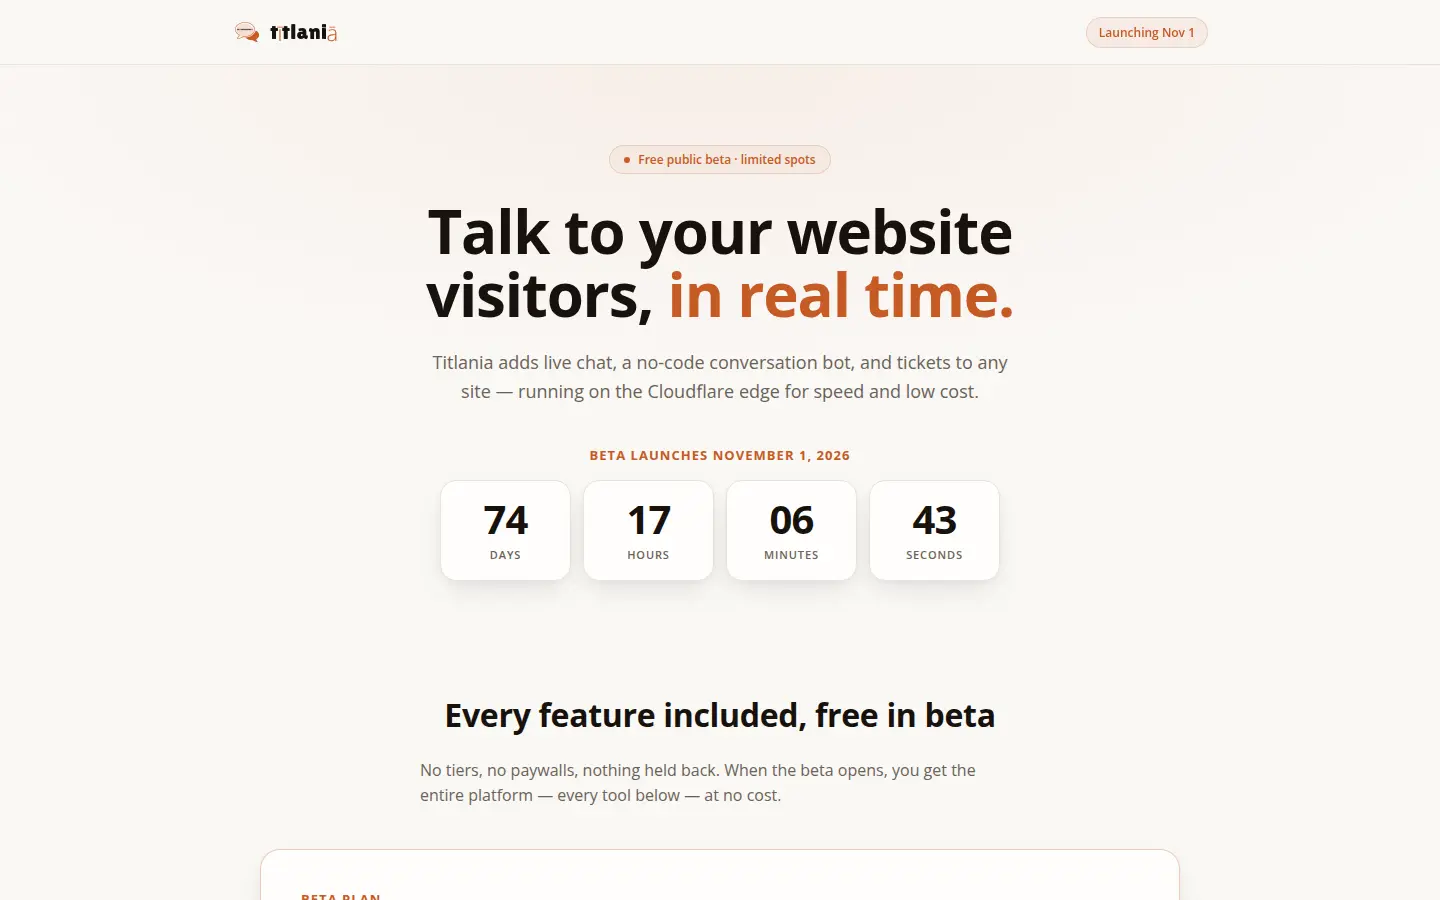
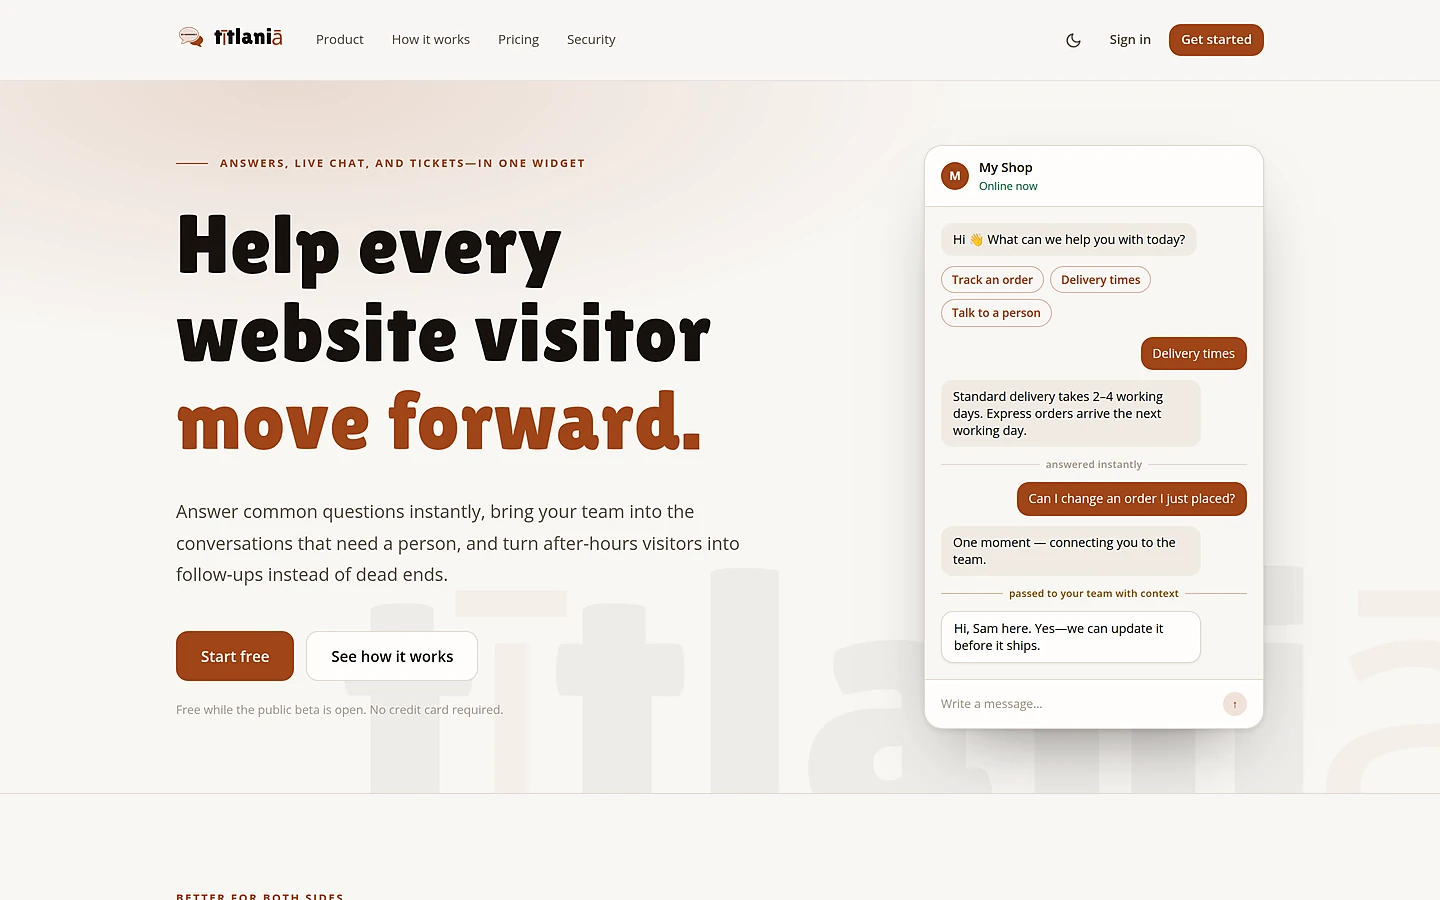
Mark Titlania as live and refresh its project card
Titlania has shipped (free public beta), so update every place that still
described it as unreleased and give it a real description and thumbnail.

- content.js: status IN DEVELOPMENT -> LIVE; replace the placeholder
  description with what the product actually is (a customer-support widget
  that answers routine questions in the visitor's browser and hands live
  chats/tickets to a human team); real tags (Support widget, Live chat,
  Browser-local, Cloudflare); accurate imageAlt; and the Independent
  Products experience line now reads "Building, shipping and maintaining
  Titlania alongside it."
- titlania-preview.webp: replace the stale preview with a real 1440x900
  hero screenshot of the live site (light theme, captured headless via the
  DevTools protocol), re-encoded through PIL at q90 so text stays crisp
  (the ImageMagick build here silently ignores -quality for WebP).
- build.mjs + llms.txt: drop the "in development" / "ongoing" wording from
  the sitemap image caption and the AI-readable summary so the public
  metadata matches the live status.

Verified with `npm run build && npm run verify` (all checks pass).

Claude-Session: https://claude.ai/code/session_0139M35YmY6M33FPfTJAZbu9

diff --git a/src/data/content.js b/src/data/content.js
@@ -4,7 +4,7 @@ export const experience = [
     title: 'Product Developer',
     company: 'Independent Products',
     description:
-      'Design, build, ship and maintain WithinBench end to end: product direction, interface, the full Next.js implementation, hardened Cloudflare Workers, deployment and legal pages. Developing Titlania alongside it. Sole owner of both codebases and every decision in them.',
+      'Design, build, ship and maintain WithinBench end to end: product direction, interface, the full Next.js implementation, hardened Cloudflare Workers, deployment and legal pages. Building, shipping and maintaining Titlania alongside it. Sole owner of both codebases and every decision in them.',
     tags: ['Product development', 'React', 'Next.js', 'TypeScript', 'Cloudflare'],
   },
   {
@@ -34,9 +34,10 @@ export const projects = [
     name: 'Titlania',
     href: 'https://titlania.com',
     image: '/titlania-preview.webp',
-    imageAlt: 'Titlania ongoing product project preview',
-    status: 'IN DEVELOPMENT',
-    description: 'An ongoing independent product. More information will be shared when the work is ready.',
-    tags: ['Ongoing project'],
+    imageAlt: 'Titlania support-widget homepage showing live chat and instant answers',
+    status: 'LIVE',
+    description:
+      'A support widget for websites that answers routine questions instantly in the visitor’s browser, then hands live chats and tickets to a human team with the context intact. Currently in free public beta.',
+    tags: ['Support widget', 'Live chat', 'Browser-local', 'Cloudflare'],
   },
 ]
